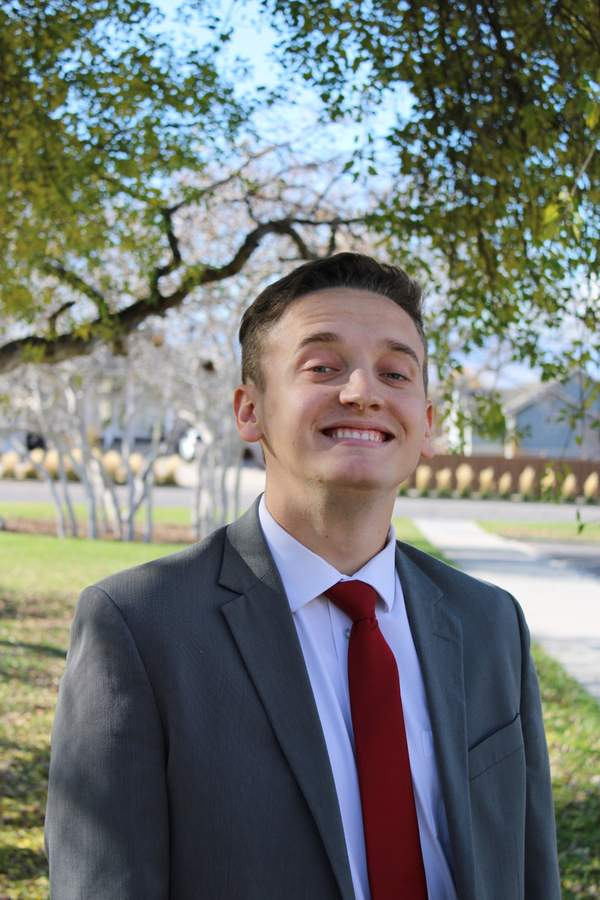
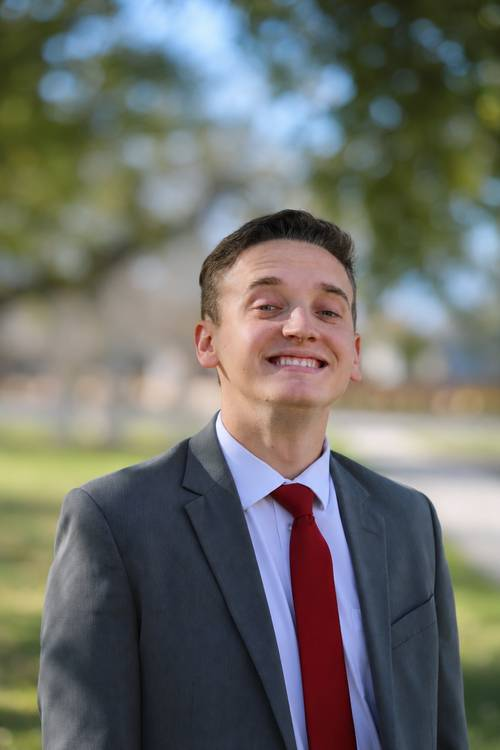
Blur portfolio photo background

diff --git a/index.html b/index.html
@@ -22,7 +22,7 @@
 <h1 id="hero-title">Connor Lemon<span class="hero-statement">Connecting people.<br>Moving things <em>forward.</em></span></h1>
 <p class="intro">I’m a business and analysis student at Utah Valley University. My work brings together community outreach, thoughtful coordination, and data to support people and programs.</p>
 <div class="actions"><a class="button" href="assets/Connor-Lemon-Resume.pdf" download>Download resume <span aria-hidden="true">↓</span></a><a class="text-link" href="mailto:connorlemon907@gmail.com">Let’s connect <span aria-hidden="true"><svg class="arrow" width="14" height="14" viewBox="0 0 16 16" fill="none" aria-hidden="true"><path d="M3 13 13 3M3 3h10v10" stroke="currentColor" stroke-width="1.4"/></svg></span></a></div></div>
-<aside class="focus-card" aria-label="Current work and education"><div class="card-art"><img class="profile-photo" src="assets/connor-lemon.jpg?v=dad013ea" alt="Portrait of Connor Lemon outdoors wearing a suit"></div>
+<aside class="focus-card" aria-label="Current work and education"><div class="card-art"><img class="profile-photo" src="assets/connor-lemon.jpg?v=5f947e3c" alt="Portrait of Connor Lemon outdoors wearing a suit"></div>
 <div class="card-body"><p class="eyebrow">Currently</p><p class="current-role">Assistive Technology Coordinator<span>Ability 1st Utah</span></p><p class="current-role">Adobe Student Ambassador<span>Adobe · Utah Valley University</span></p><div class="card-footer">UVU <span>Class of 2027</span></div></div></aside>
 </section>
 <div class="section-band"><div class="wrap band-inner"><p>Organized in the details.<br><strong>Focused on the people.</strong></p><p>From coordinating assistive technology requests to engaging student communities, I help keep communication clear and programs moving.</p></div></div>
